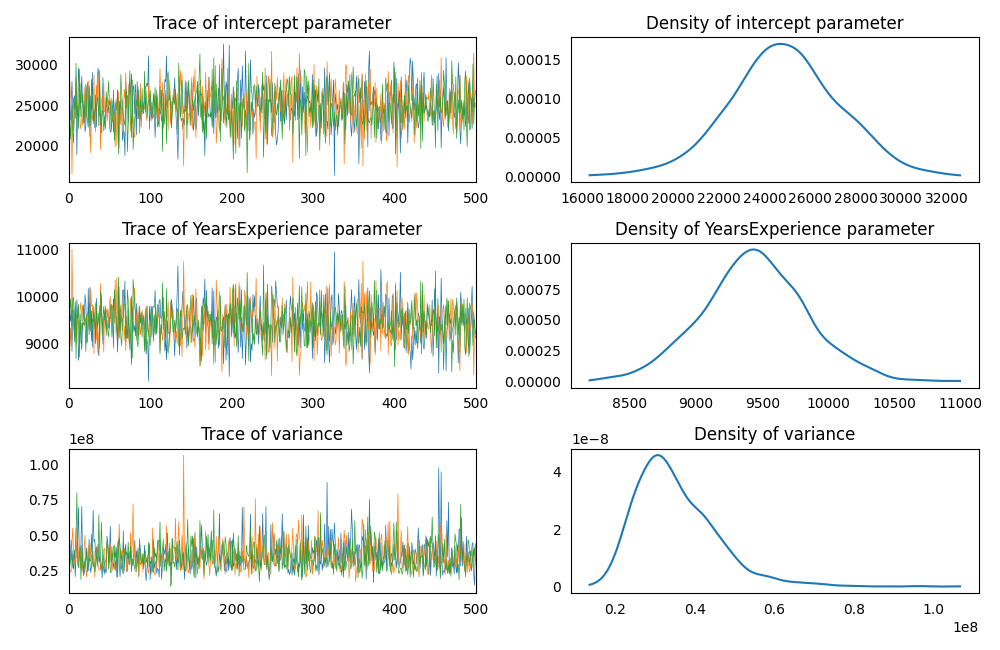
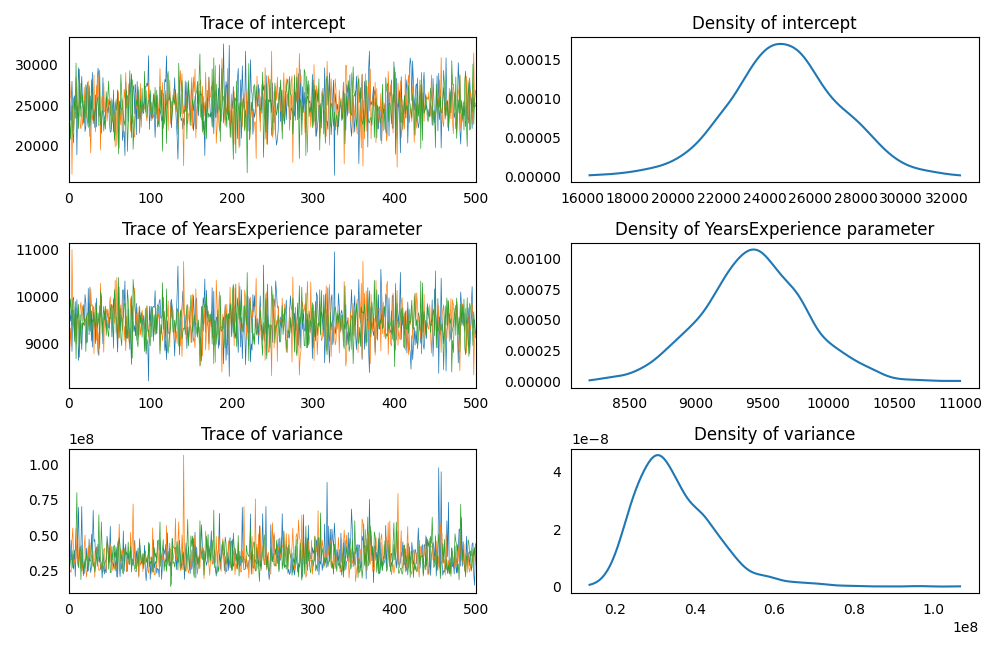
Bugfix on trace_plot titles

Changed region(s): [[0.651, 0.0308, 0.899, 0.0615], [0.155, 0.0308, 0.403, 0.0615]]

diff --git a/GibbsSampler/analysis/functions.py b/GibbsSampler/analysis/functions.py
@@ -34,7 +34,7 @@ def trace_plot(posteriors: dict) -> None:
         ax_i_trace.plot(posteriors[variable], linewidth = 0.5)
         ax_i_density.plot(*_compute_kde(posteriors[variable].flatten()))
 
-        if variable != 'variance':
+        if variable not in ['intercept', 'variance']:
             ax_i_trace.set_title(f'Trace of {variable} parameter')
             ax_i_density.set_title(f'Density of {variable} parameter')
         else:

diff --git a/examples/heart/README.md b/examples/heart/README.md
@@ -1,6 +1,6 @@
 ### Model Set Up
 
-Pretending to fit the heart dataset:
+Pretending to fit the [heart dataset](ehttps://github.com/AndreaBlengino/GibbsSampler/blob/master/examples/heart/data.csv):
 
 ```python
 import numpy as np
